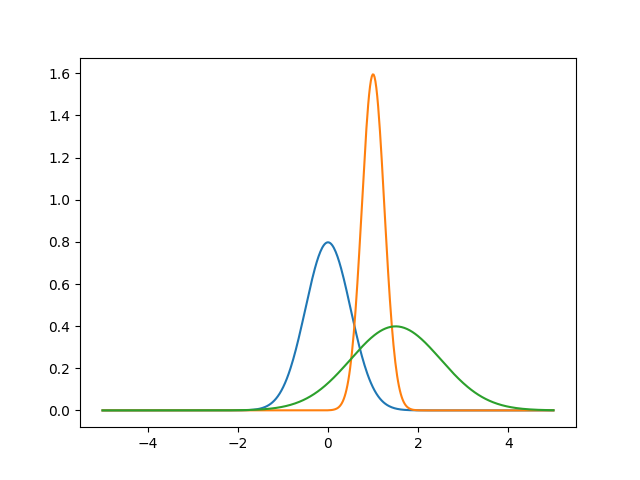
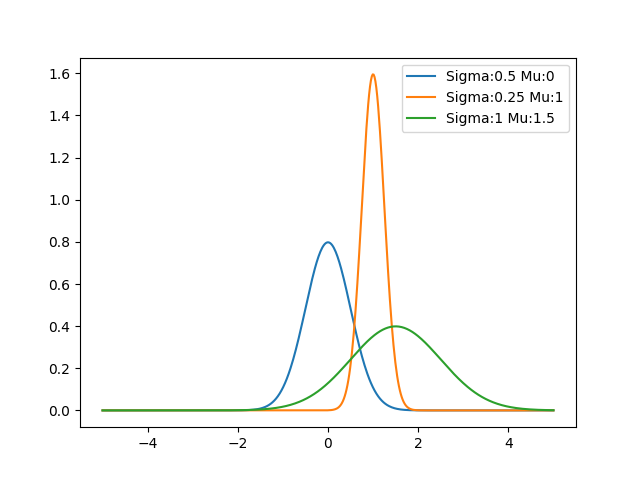
..

Changed region(s): [[0.625, 0.125, 0.875, 0.2812]]

diff --git a/00_introduction/hw1.py b/00_introduction/hw1.py
@@ -14,8 +14,9 @@ def plot_normal(sigma: float, mu:float, x_start: float, x_end: float):
     x_range = np.linspace(x_start, x_end, 500)
 
     
-    plt.plot(x_range, 1/np.sqrt(2 * np.pi * np.power(sigma, 2)) * np.exp(-np.power(x_range-mu, 2)/(2 * np.power(sigma, 2))), label=f'Power ')
+    plt.plot(x_range, 1/np.sqrt(2 * np.pi * np.power(sigma, 2)) * np.exp(-np.power(x_range-mu, 2)/(2 * np.power(sigma, 2))), label=f'Sigma:{sigma} Mu:{mu}')
 
+    plt.legend(loc='upper right')
 
 
 def _plot_three_normals():
@@ -25,6 +26,8 @@ def _plot_three_normals():
     plot_normal(0.5, 0, -5, 5)
     plot_normal(0.25, 1, -5, 5)
     plot_normal(1, 1.5, -5, 5)
+
+    
 
     plt.savefig("./00_introduction/1_2_1.png")
 
@@ -61,7 +64,8 @@ def _compare_components_and_mixture():
         
         result += weights[i]/np.sqrt(2 * np.pi * np.power(sigmas[i], 2)) * np.exp(-np.power(x_range-mus[i], 2)/(2 * np.power(sigmas[i], 2)))
 
-    plt.plot(x_range,result)
+    plt.plot(x_range,result, label=f'Mixture')
+    plt.legend(loc='upper right')
     plt.savefig("./00_introduction/2_2_1.png")
     plt.show()
 
@@ -117,20 +121,20 @@ def _plot_mixture_and_samples():
 
 if __name__ == '__main__':
 
-    print(normal(np.array([-1,0,1]), 1, 0))
+    #print(normal(np.array([-1,0,1]), 1, 0))
 
-    print(normal(0,1,0))
+    #print(normal(0,1,0))
  
 
-    plot_normal(0.5, 0, -2, 2)
-    _plot_three_normals()
-    normal_mixture(np.linspace(-5, 5, 5), [0.5, 0.25, 1], [0, 1, 1.5], [1/3, 1/3, 1/3])
+    #plot_normal(0.5, 0, -2, 2)
+    #_plot_three_normals()
+    #normal_mixture(np.linspace(-5, 5, 5), [0.5, 0.25, 1], [0, 1, 1.5], [1/3, 1/3, 1/3])
 
-    normal_mixture(np.linspace(-2, 2, 4), [0.5], [0], [1])
+    #normal_mixture(np.linspace(-2, 2, 4), [0.5], [0], [1])
 
     _compare_components_and_mixture()
 
-    print(sample_gaussian_mixture([0.1, 1], [-1, 1], [0.9, 0.1],4))
-    print(sample_gaussian_mixture([0.1, 1, 1.5], [1, -1, 5], [0.1, 0.1, 0.8], 10))
+    #print(sample_gaussian_mixture([0.1, 1], [-1, 1], [0.9, 0.1],4))
+    #print(sample_gaussian_mixture([0.1, 1, 1.5], [1, -1, 5], [0.1, 0.1, 0.8], 10))
 
-    _plot_mixture_and_samples()
+    #_plot_mixture_and_samples()
